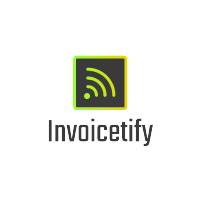
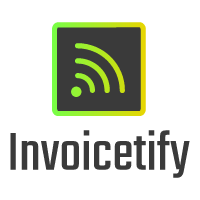
style: change picture resolution

Changed region(s): [[0.03, 0.09, 0.96, 0.9]]

diff --git a/components/grid-item.js b/components/grid-item.js
@@ -41,18 +41,24 @@ export const WorkGridItem = ({ children, id, title, thumbnail }) => (
         textDecoration: 'none'
       }}
     >
-      <>
-        <Image
-          src={thumbnail}
-          alt={title}
-          className="grid-item-thumbnail"
-          placeholder="blur"
-        />
+      <Box
+        display={'flex'}
+        flexDirection="column"
+        alignItems="center"
+      >
+        <Box>
+          <Image
+            src={thumbnail}
+            alt={title}
+            className="grid-item-thumbnail"
+            placeholder="blur"
+          />
+        </Box>
         <Text mt={2} fontSize={20}>
           {title}
         </Text>
         <Text fontSize={14}>{children}</Text>
-      </>
+      </Box>
     </LinkBox>
   </Box>
 )

diff --git a/pages/works/invoicetify.js b/pages/works/invoicetify.js
@@ -249,13 +249,12 @@ const Invoicetify = () => {
                   <Image
                     src="/images/works/invoicetify.png"
                     alt="Invoicetify Logo"
-                    width="150px"
-                    height="150px"
+                    width="120px"
+                    height="120px"
                   />
                 </Box>
                 <Heading
                   textAlign={'center'}
-                  mt="-30px"
                   as="h4"
                   variant={'section-title'}
                 >
